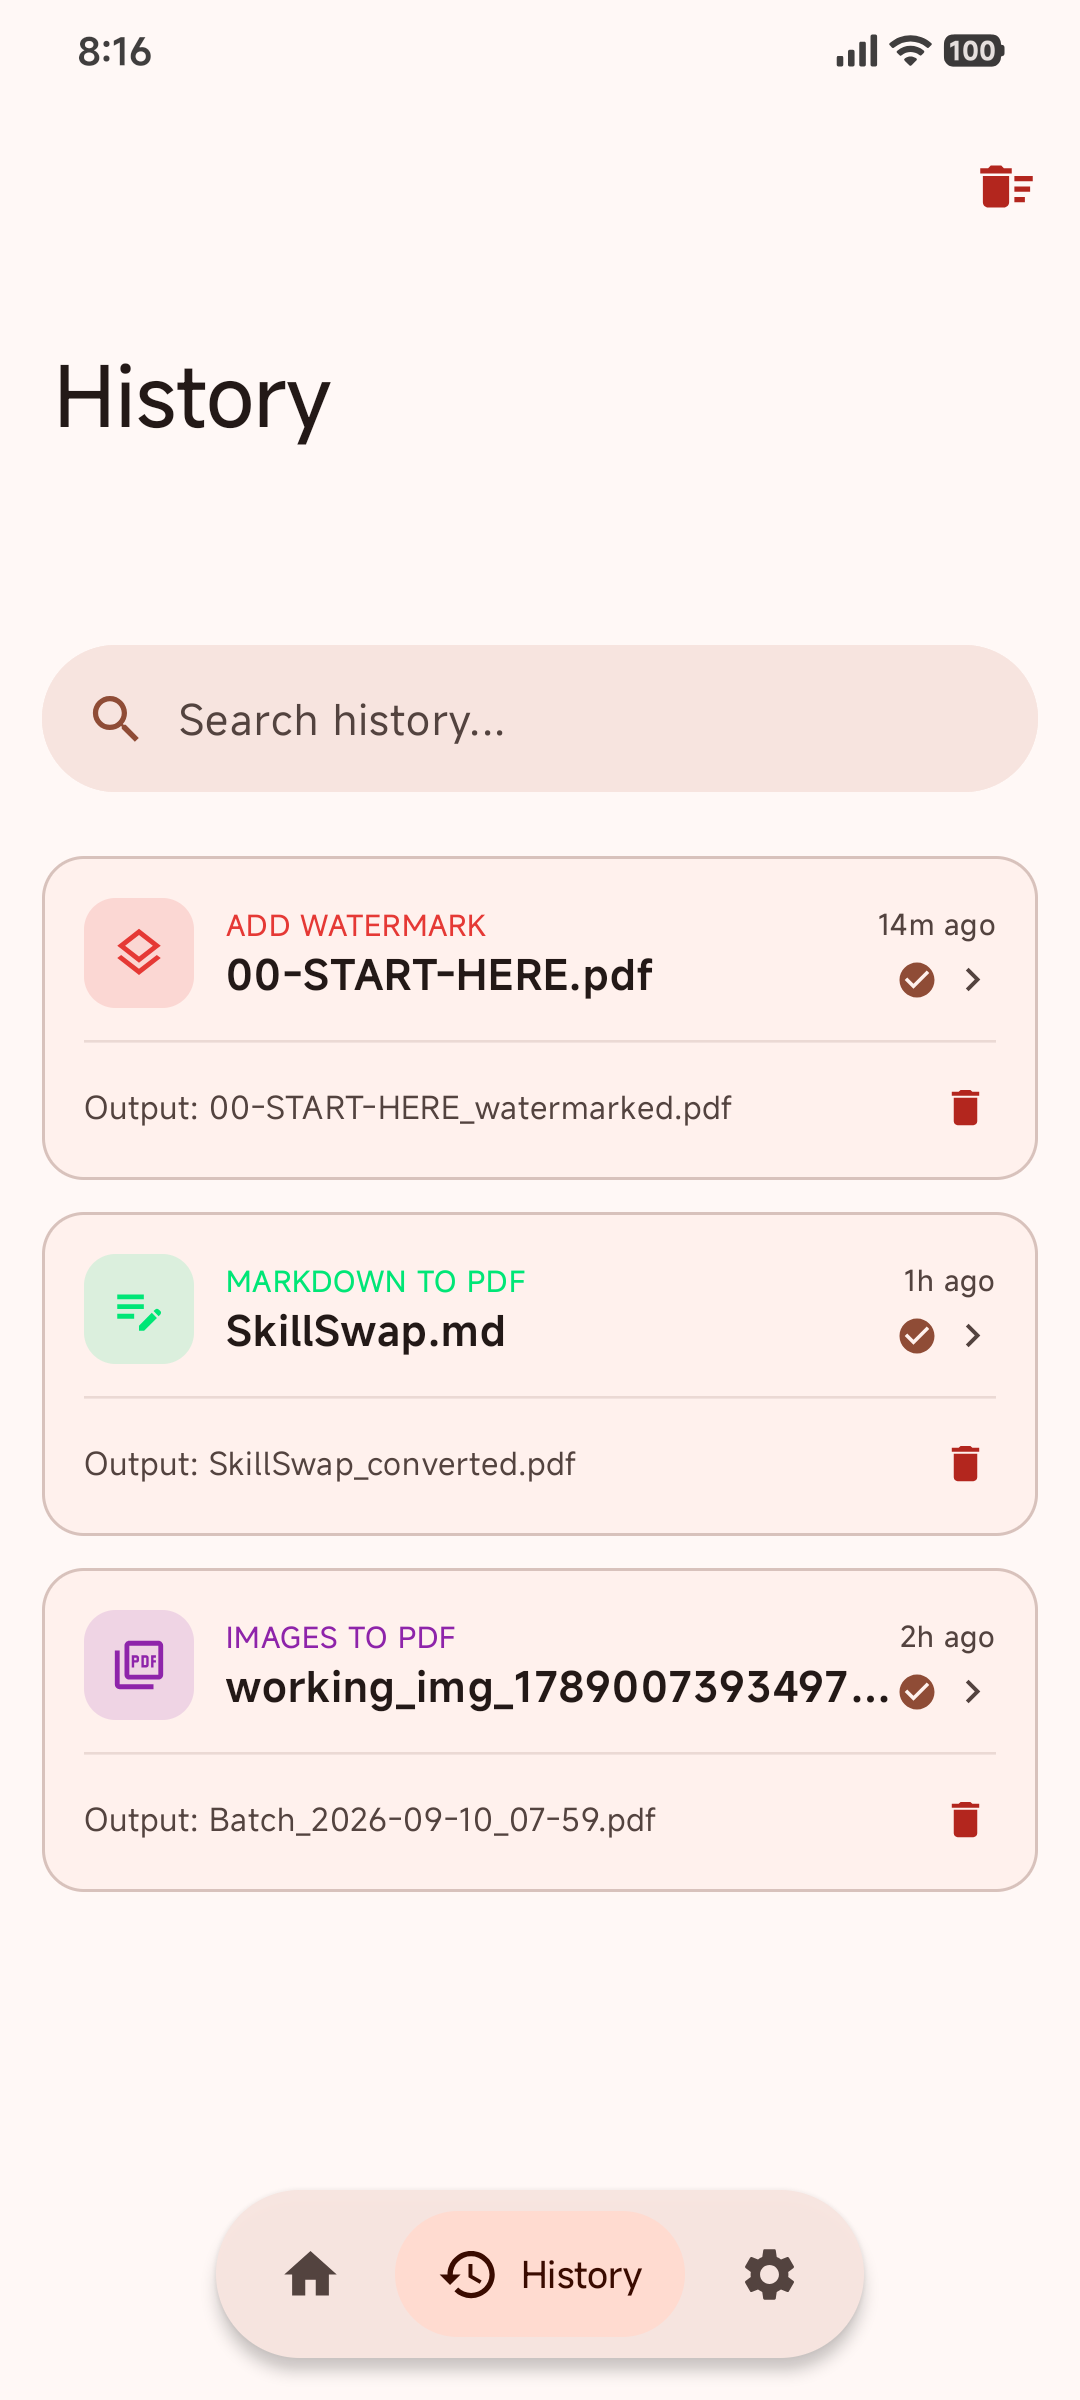
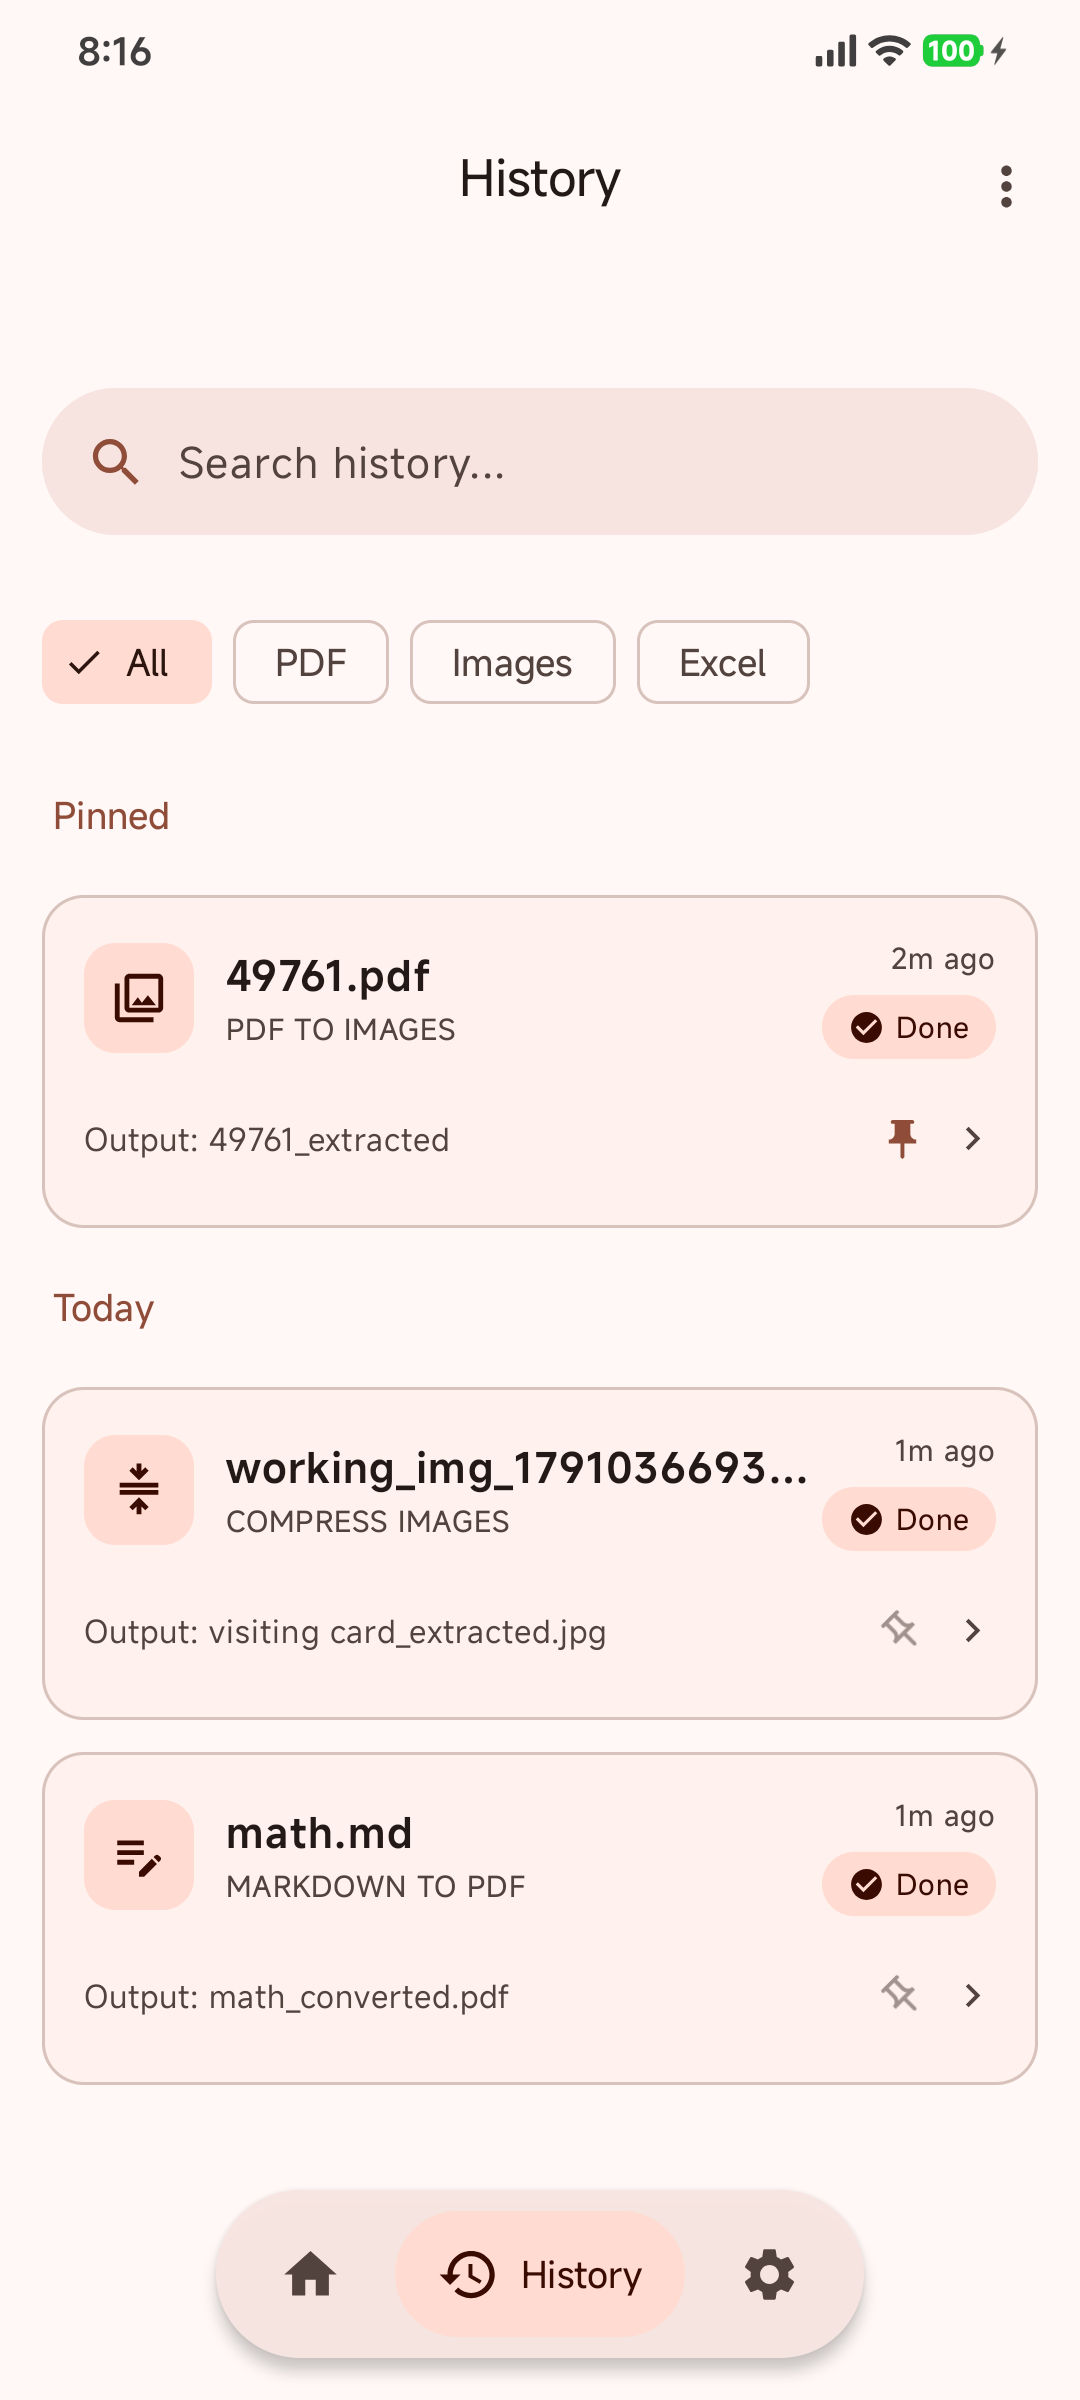
chore(release): bump version to 1.5.0 and update release notes
- Bump versionCode to 11 and versionName to 1.5.0 in build.gradle.kts
- Update RELEASE_INFO.md with user-facing v1.5.0 release notes
- Update README.md latest updates section and tools list

diff --git a/app/src/main/java/com/morphdrop/app/ui/screens/history/HistoryScreen.kt b/app/src/main/java/com/morphdrop/app/ui/screens/history/HistoryScreen.kt
@@ -44,6 +44,7 @@ import androidx.compose.ui.draw.rotate
 import kotlinx.coroutines.Job
 import androidx.compose.material.icons.filled.SearchOff
 import androidx.compose.material.icons.filled.SelectAll
+import androidx.activity.compose.BackHandler
 import androidx.compose.material3.AlertDialog
 import androidx.compose.material3.CardDefaults
 import androidx.compose.material3.DropdownMenu
@@ -64,6 +65,7 @@ import androidx.compose.material3.SwipeToDismissBox
 import androidx.compose.material3.SwipeToDismissBoxValue
 import androidx.compose.material3.Text
 import androidx.compose.material3.TextButton
+import androidx.compose.material3.TopAppBar
 import androidx.compose.material3.TopAppBarDefaults
 import androidx.compose.material3.rememberSwipeToDismissBoxState
 import androidx.compose.material3.rememberTopAppBarState
@@ -273,8 +275,12 @@ fun HistoryScreenContent(
 
     val groupedHistory = remember(historyList) { groupHistoryByDay(historyList) }
 
+    BackHandler(enabled = selectionMode) {
+        onClearSelection()
+    }
+
     Scaffold(
-        modifier = Modifier.nestedScroll(scrollBehavior.nestedScrollConnection),
+        modifier = if (selectionMode) Modifier else Modifier.nestedScroll(scrollBehavior.nestedScrollConnection),
         // Lift the snackbar above the floating bottom navbar (rendered by
         // MainActivity): otherwise the message hides behind the pill and the
         // Undo action is untappable. No lift needed when the rail is used.
@@ -287,13 +293,29 @@ fun HistoryScreenContent(
             )
         },
         topBar = {
-            MorphDropTopAppBar(
-                title = if (selectionMode) "${selectedIds.size} selected" else "History",
-                scrollBehavior = scrollBehavior,
-                showBackArrow = false,
-                hasActions = hasActions || selectionMode,
-                actions = {
-                    if (selectionMode) {
+            if (selectionMode) {
+                TopAppBar(
+                    title = {
+                        Text(
+                            text = "${selectedIds.size} selected",
+                            style = MaterialTheme.typography.titleLarge,
+                            fontWeight = FontWeight.Bold,
+                            color = MaterialTheme.colorScheme.onBackground
+                        )
+                    },
+                    navigationIcon = {
+                        IconButton(
+                            onClick = onClearSelection,
+                            modifier = Modifier.size(48.dp)
+                        ) {
+                            Icon(
+                                imageVector = Icons.Default.Close,
+                                contentDescription = "Clear selection",
+                                tint = MaterialTheme.colorScheme.onBackground
+                            )
+                        }
+                    },
+                    actions = {
                         // Select all visible
                         IconButton(
                             onClick = onSelectAll,
@@ -301,7 +323,8 @@ fun HistoryScreenContent(
                         ) {
                             Icon(
                                 imageVector = Icons.Default.SelectAll,
-                                contentDescription = "Select all"
+                                contentDescription = "Select all",
+                                tint = MaterialTheme.colorScheme.onBackground
                             )
                         }
                         // Delete selected
@@ -334,50 +357,55 @@ fun HistoryScreenContent(
                                 tint = MaterialTheme.colorScheme.error
                             )
                         }
-                        // Exit selection mode
-                        IconButton(
-                            onClick = onClearSelection,
-                            modifier = Modifier.size(48.dp)
-                        ) {
-                            Icon(
-                                imageVector = Icons.Default.Close,
-                                contentDescription = "Clear selection"
-                            )
-                        }
-                    } else if (hasActions) {
-                        Box {
-                            IconButton(
-                                onClick = { showOverflowMenu = true },
-                                modifier = Modifier.size(48.dp)
-                            ) {
-                                Icon(
-                                    imageVector = Icons.Default.MoreVert,
-                                    contentDescription = "More options"
-                                )
-                            }
-                            DropdownMenu(
-                                expanded = showOverflowMenu,
-                                onDismissRequest = { showOverflowMenu = false }
-                            ) {
-                                DropdownMenuItem(
-                                    text = { Text("Clear all history") },
-                                    leadingIcon = {
-                                        Icon(
-                                            imageVector = Icons.Default.DeleteSweep,
-                                            contentDescription = null,
-                                            tint = MaterialTheme.colorScheme.error
-                                        )
-                                    },
-                                    onClick = {
-                                        showOverflowMenu = false
-                                        showClearDialog = true
-                                    }
-                                )
+                    },
+                    colors = TopAppBarDefaults.topAppBarColors(
+                        containerColor = MaterialTheme.colorScheme.background,
+                        scrolledContainerColor = MaterialTheme.colorScheme.background,
+                        titleContentColor = MaterialTheme.colorScheme.onBackground
+                    )
+                )
+            } else {
+                MorphDropTopAppBar(
+                    title = "History",
+                    scrollBehavior = scrollBehavior,
+                    showBackArrow = false,
+                    hasActions = hasActions,
+                    actions = {
+                        if (hasActions) {
+                            Box {
+                                IconButton(
+                                    onClick = { showOverflowMenu = true },
+                                    modifier = Modifier.size(48.dp)
+                                ) {
+                                    Icon(
+                                        imageVector = Icons.Default.MoreVert,
+                                        contentDescription = "More options"
+                                    )
+                                }
+                                DropdownMenu(
+                                    expanded = showOverflowMenu,
+                                    onDismissRequest = { showOverflowMenu = false }
+                                ) {
+                                    DropdownMenuItem(
+                                        text = { Text("Clear all history") },
+                                        leadingIcon = {
+                                            Icon(
+                                                imageVector = Icons.Default.DeleteSweep,
+                                                contentDescription = null,
+                                                tint = MaterialTheme.colorScheme.error
+                                            )
+                                        },
+                                        onClick = {
+                                            showOverflowMenu = false
+                                            showClearDialog = true
+                                        }
+                                    )
+                                }
                             }
                         }
                     }
-                }
-            )
+                )
+            }
         }
     ) { innerPadding ->
         Box(

diff --git a/RELEASE_INFO.md b/RELEASE_INFO.md
@@ -1,15 +1,17 @@
-# MorphDrop v1.4.3 - System Routing, PDF Enhancements and Core Stability
+# MorphDrop v1.5.0 - Ember Design Overhaul, Markdown Engine and Performance
 
 ## New Features
-- **Unified Share Sheet and Open-With Routing:** Direct intent routing via single task activity for seamless document viewing and conversion from external apps across all supported file types (PDF, Markdown, Excel, CSV, Images, and Text).
-- **Excel Spreadsheet Preview Card:** Added dedicated preview card for Excel and CSV files prior to conversion, displaying sheet names, column dimensions, and table stats.
+- **Ember Design System:** Refreshed modern visual identity with warm neutral tones, theme-aware contrast, dynamic wallpaper colors (Android 12+), and responsive layouts for foldables and tablets.
+- **Advanced Markdown to PDF Engine:** Complete rendering overhaul supporting GitHub Flavored Markdown tables, inline and block math formulas, syntax-highlighted code blocks, blockquotes, and interactive task checklists.
+- **Quick Conversion Presets & Continue Reading:** Instant conversions with saved tool presets via long-press, paired with a home screen continue-reading card to jump straight back into your last opened document.
 
 ## Improvements
-- **Wide Excel to PDF Layout Engine:** Dynamic page sizing and auto-orientation with zebra striping, proportional column width clamping, and clean multi-line row pagination across page breaks.
-- **Enhanced PDF Annotation Suite:** Added undo and redo capabilities, swipe eraser deduplication, persistent bottom toolbar alignment, and atomic Room database transactions for stroke and highlight persistence.
-- **Image Metadata Inspector:** Enhanced EXIF extraction with direct ContentResolver input stream fallback for scoped storage, preserving 0-meter altitude values and precise GPS coordinates.
+- **70% Smaller App Size:** Streamlined 64-bit architecture filtering and R8 bytecode optimization slashed release APK download size from 73MB down to ~21MB.
+- **History Multi-Select & Pinning:** Organize your conversion history with bulk deletion, instant undo restoration, and pin-to-top prioritization for essential documents.
+- **Adaptive Screen Padding:** Responsive, comfortable bottom spacing and edge-to-edge layout across Home, History, and Settings screens.
 
 ## Bug Fixes
-- **PDF Viewer Zoom Rendering and Canvas Safety:** Resolved zoom rendering clarity by rendering base preview at 2.0x display density across all zoom levels without pixelated overlay degradation, while protecting against Android Hardware Canvas 100MB limits on oversized documents.
-- **Text Selection Bounds Crash:** Fixed IllegalArgumentException in PDF viewer text action popup menu by safely enforcing non-negative coordinate boundaries during deep zoom.
-- **MIME Type and Intent Decoding:** Corrected redundant URI decoding in conversion configuration and added wildcard MIME filters in AndroidManifest for reliable system-wide file associations.
+- **UI & Undo Glitches:** Resolved duplicate pin indicators and fixed redundant snackbar alerts when undoing history deletions.
+- **Settings Alignment:** Fixed wallpaper color toggle positioning and dynamic theme state restoration.
+- **Conversion Robustness:** Closed background stream and memory leaks across PDF converters, with enhanced cooperative task cancellation.
+- **Reliable Persistence:** Hardened Room database migration handling and secure package update verification.

diff --git a/README.md b/README.md
@@ -71,13 +71,13 @@
 
 ## Features
 
-### Latest Updates (v1.4.3)
+### Latest Updates (v1.5.0)
 
-> - **Unified System Routing** — Single-task activity architecture for seamless external share sheet and "Open With" handling across PDF, Markdown, Excel, CSV, text, and images.
-> - **Wide Excel Layout & Preview** — Dynamic column width clamping, auto-orientation, zebra striping, multi-line row pagination, and interactive spreadsheet preview cards.
-> - **High-Performance PDF Viewer** — Hardware-accelerated 2.0x base density zoom rendering without pixelation, combined with canvas allocation guards preventing out-of-memory crashes on oversized documents.
-> - **Full Annotation Toolkit** — Complete drawing and highlight suite with undo/redo history, swipe-based eraser deduplication, and atomic Room database persistence.
-> - **Image Metadata Inspector** — Scoped storage stream fallback for permission-free EXIF metadata inspection, preserving 0-meter altitude and precision GPS data.
+> - **Ember Design Language** — Modern, warm aesthetic with responsive tablet/foldable layouts, comfortable screen paddings, and dynamic Android 12+ wallpaper palette theming.
+> - **Rich Markdown to PDF Engine** — Full rendering overhaul supporting tables, inline/block math equations, syntax-highlighted code blocks, blockquotes, and task checklists.
+> - **Quick Presets & Reading Continuation** — One-tap conversion via saved tool presets (long-press cards) and Home resume-reading card for your last opened PDF.
+> - **Streamlined APK Footprint** — Reduced release download size by >70% (from 73MB to ~21MB) via 64-bit architecture optimization and R8 bytecode shrinking.
+> - **History Multi-Select & Pinning** — Bulk log deletion with instant undo, combined with pinned-to-top ordering for favorite conversions.
 
 <br>
 <details>
@@ -94,6 +94,7 @@
 <summary><b>Document & Markdown Tools</b></summary>
 <br>
 
+- **Markdown to PDF** — Convert rich markdown files into formatted PDFs complete with tables, math equations, code blocks, blockquotes, and checklists.
 - **Markdown Viewer** — Clean reader for `.md` files with formatted tables, code blocks, and system-wide "Open With" integration.
 - **Markdown Editor** — Split-pane or full-screen editor with debounced live preview, formatting toolbar, and keyboard shortcuts.
 - **Text to PDF** — Convert plain text files into cleanly formatted PDF documents.
